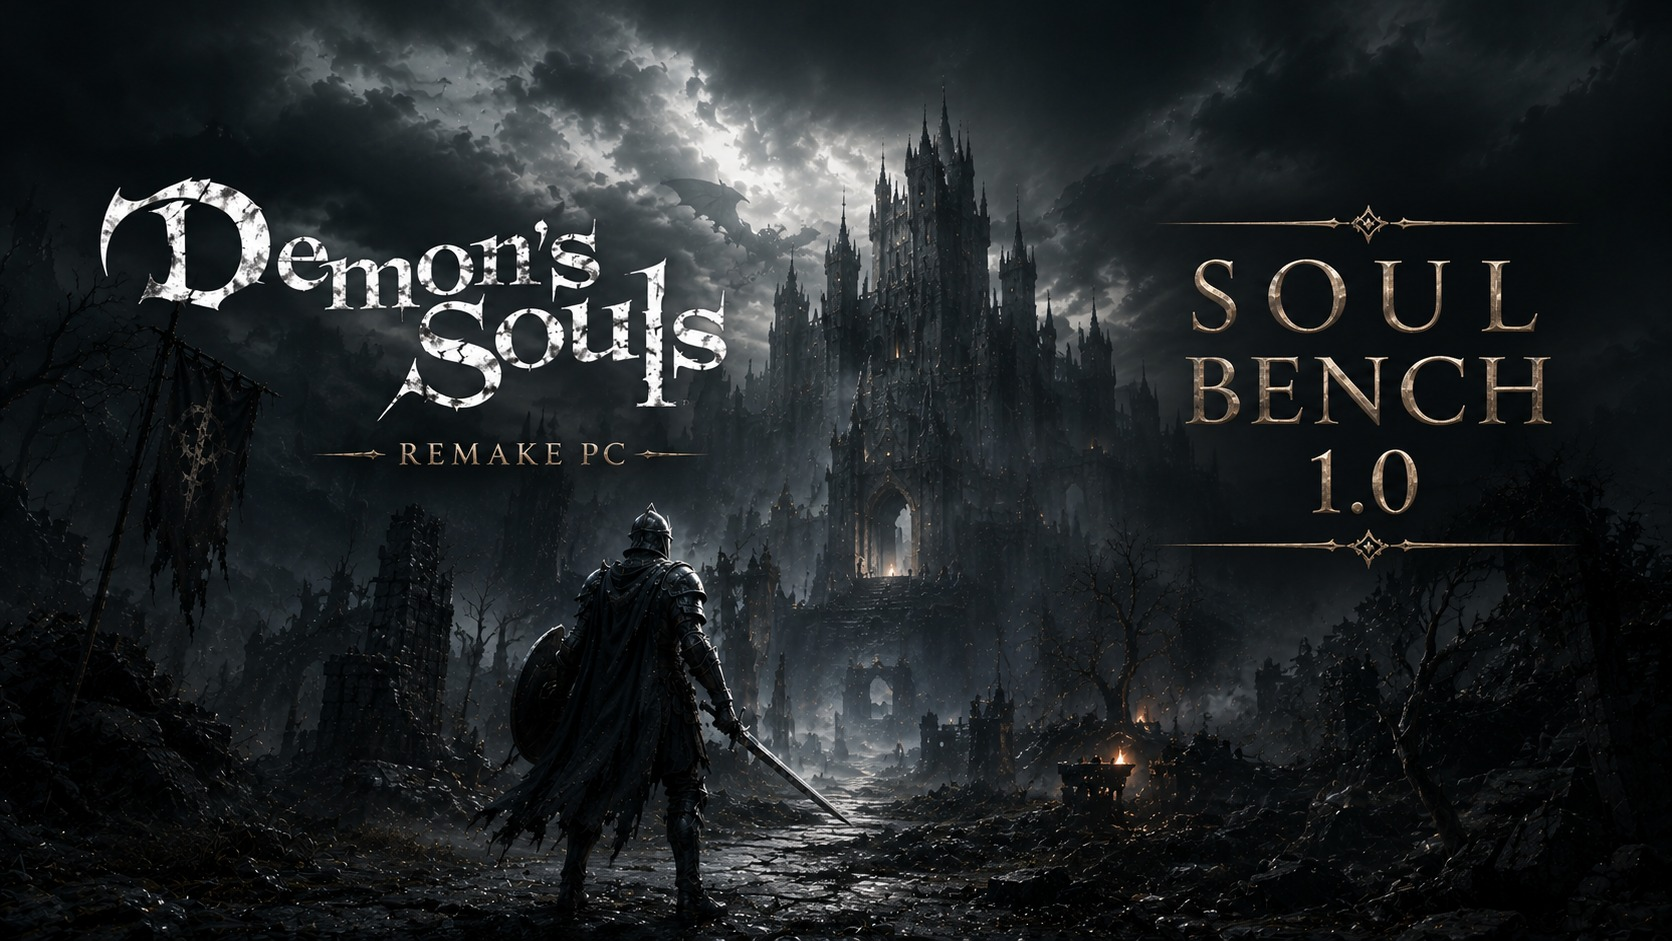
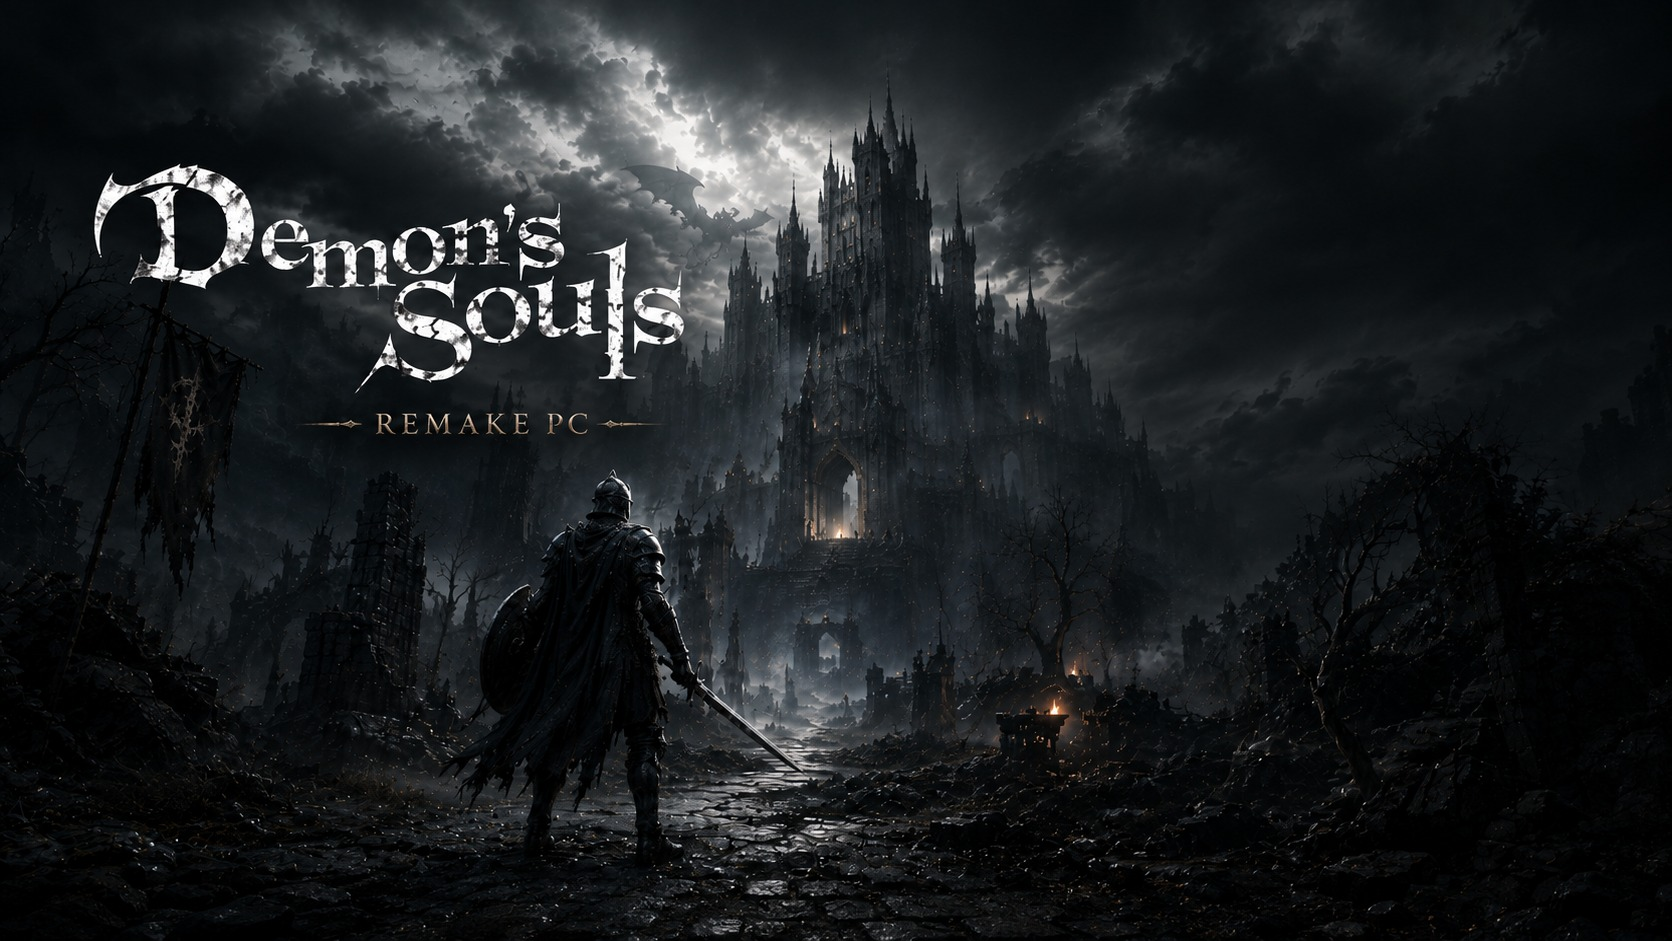
Port: exclusive fullscreen and DLSS-G preset options, new background image
pantalla_exclusiva (KYTY_EXCLUSIVE_FULLSCREEN, with fullscreen) and fg_preset_dlss (auto/C,
KYTY_DLSSG_PRESET with DLSS frame generation), in settings.ini and the menu (restart). fondo-souls.jpg:
the Demon's Souls REMAKE PC art (splash and menu background).

Claude-Session: https://claude.ai/code/session_0116XayCVwz1n9zLk3mWf639

diff --git a/src/port/ds-settings.cpp b/src/port/ds-settings.cpp
@@ -156,6 +156,7 @@ bool LoadSettings(const std::string& path, Settings* s) {
 	num("idioma", s->language);
 	boo("copia_partidas", s->backup_saves);
 	boo("pantalla_completa", s->fullscreen);
+	boo("pantalla_exclusiva", s->exclusive);
 	num("ancho", s->width);
 	num("alto", s->height);
 	boo("hdr", s->hdr);
@@ -169,6 +170,7 @@ bool LoadSettings(const std::string& path, Settings* s) {
 	str("nitidez", s->sharpness);
 	str("preset_dlss", s->dlss_preset);
 	str("frame_generation", s->framegen);
+	str("fg_preset_dlss", s->fg_preset);
 	boo("turbo", s->turbo);
 	boo("perfil_16gb", s->profile16);
 	boo("gpu_seguro", s->safe_gpu);
@@ -197,6 +199,8 @@ bool SaveSettings(const std::string& path, const Settings& s) {
 	  << "copia_partidas=" << b(s.backup_saves) << "\n\n"
 	  << "[Pantalla]\n"
 	  << "pantalla_completa=" << b(s.fullscreen) << "\n"
+	  << "; Pantalla completa exclusiva (con pantalla_completa=1): la pantalla para el juego solo\n"
+	  << "pantalla_exclusiva=" << b(s.exclusive) << "\n"
 	  << "; Tamano de la ventana (sin pantalla completa)\n"
 	  << "ancho=" << s.width << "\nalto=" << s.height << "\n"
 	  << "; HDR10: solo si \"Usar HDR\" esta activado en la configuracion de pantalla de Windows\n"
@@ -224,7 +228,9 @@ bool SaveSettings(const std::string& path, const Settings& s) {
 	  << "[FrameGeneration]\n"
 	  << "; sin-fg, amd-x2, amd-x3, amd-x4, amd-120, amd-dinamico,\n"
 	  << "; dlss-x2, dlss-x3, dlss-x4, dlss-x5, dlss-x6, dlss-120, dlss-dinamico (NVIDIA RTX)\n"
-	  << "frame_generation=" << s.framegen << "\n\n"
+	  << "frame_generation=" << s.framegen << "\n"
+	  << "; Preset de la frame generation DLSS: auto (el del driver) o C\n"
+	  << "fg_preset_dlss=" << s.fg_preset << "\n\n"
 	  << "[Rendimiento]\n"
 	  << "; TURBO: graficas de 8 GB o menos / PCs de 8-12 GB de RAM (3D a 1080, solo reescalado AA nativo: dlss-dlaa, xess-aa, fsr-aa; texturas a un cuarto)\n"
 	  << "turbo=" << b(s.turbo) << "\n"
@@ -374,6 +380,8 @@ LaunchPlan BuildLaunch(const Settings& s, const std::string& title_id) {
 			env.Set("KYTY_FLIP_WHEN_READY", "1");
 		}
 	}
+	if (s.fullscreen && s.exclusive) env.Set("KYTY_EXCLUSIVE_FULLSCREEN", "1");
+	if (s.fg_preset == "C" && std::strncmp(fg->id, "dlss", 4) == 0) env.Set("KYTY_DLSSG_PRESET", "C");
 	// The port's own: metrics (the launcher started metricas.ps1; here the in-game panel) and rumble.
 	env.Set("KYTY_FPS_HUD", s.metrics == "1" || s.metrics == "2" ? s.metrics : "");
 	env.Set("KYTY_HAPTIC_RUMBLE", s.rumble ? "1" : "0");
@@ -397,7 +405,7 @@ LaunchPlan BuildLaunch(const Settings& s, const std::string& title_id) {
 
 bool NeedsRestart(const Settings& l, const Settings& n) {
 	// Live: sharpness, the fps cap, metrics and rumble.
-	return l.game != n.game || l.language != n.language || l.fullscreen != n.fullscreen || l.width != n.width ||
+	return l.game != n.game || l.exclusive != n.exclusive || l.fg_preset != n.fg_preset || l.language != n.language || l.fullscreen != n.fullscreen || l.width != n.width ||
 	       l.height != n.height || l.hdr != n.hdr || l.vsync != n.vsync || l.gsync != n.gsync ||
 	       l.unlock_fps != n.unlock_fps || l.aspect_fit != n.aspect_fit || l.aspect != n.aspect || l.res != n.res ||
 	       l.dlss_preset != n.dlss_preset || l.framegen != n.framegen || l.turbo != n.turbo ||

diff --git a/src/port/ds-menu.cpp b/src/port/ds-menu.cpp
@@ -433,6 +433,7 @@ void Draw(float width, float height) {
 			switch (t) {
 				case 0: {
 					CheckRow("Pantalla completa", true, s.fullscreen);
+					CheckRow("Pantalla completa exclusiva", true, s.exclusive, "Con pantalla completa: la pantalla solo para el juego");
 					CheckRow("HDR", true, s.hdr, "HDR10: solo con \"Usar HDR\" activado en Windows");
 					CheckRow("VSync", true, s.vsync);
 					CheckRow("G-Sync / FreeSync", true, s.gsync, "El reloj del emulador no se ata a los Hz del monitor");
@@ -479,6 +480,8 @@ void Draw(float width, float height) {
 					}
 					ChoiceRow("Modo", true, modes.data(), static_cast<int>(modes.size()), s.framegen,
 					          "AMD: todas las graficas. DLSS: NVIDIA RTX 40/50");
+					static const Choice presets[] = {{"auto", "Auto (driver)"}, {"C", "C"}};
+					ChoiceRow("Preset frame generation DLSS", true, presets, 2, s.fg_preset);
 					const int max_gen = FixedDlssGenerated(g_rt.launched.framegen);
 					if (max_gen > 1 && s.framegen == g_rt.launched.framegen) {
 						if (g_fg_live == 0) g_fg_live = max_gen;

diff --git a/src/port/ds-settings.h b/src/port/ds-settings.h
@@ -46,6 +46,7 @@ struct Settings {
 	bool        backup_saves = true;
 	// [Pantalla]
 	bool        fullscreen = true;
+	bool        exclusive = false; // KYTY_EXCLUSIVE_FULLSCREEN (with fullscreen)
 	int         width = 2560, height = 1440; // the window's (fullscreen: the desktop's size is used)
 	bool        hdr = false;
 	bool        vsync = false;
@@ -60,6 +61,7 @@ struct Settings {
 	std::string dlss_preset = "auto";
 	// [FrameGeneration]
 	std::string framegen = "sin-fg";
+	std::string fg_preset = "auto"; // KYTY_DLSSG_PRESET (auto: the driver's; C)
 	// [Rendimiento]
 	bool        turbo = false;      // Launcher "TURBO (VRAM 8 GB o menos)" = run-windows -Turbo2
 	bool        profile16 = false;  // run-windows -Ram16 (ram16.txt)
